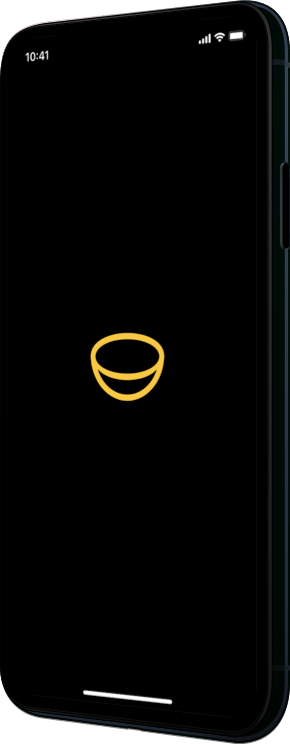
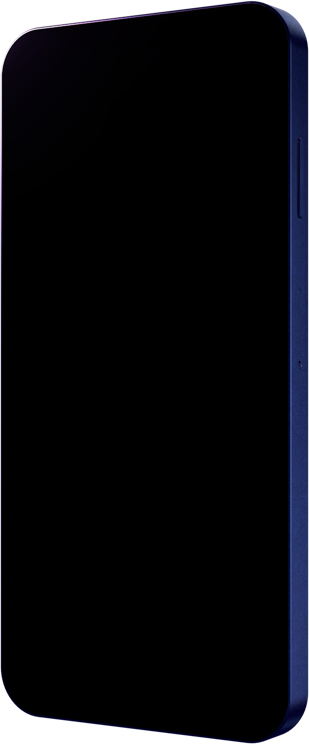
Static frame test

Changed region(s): [[0.0, 0.0, 1.0, 1.0], [0.3103, 0.4328, 0.5897, 0.5565], [0.031, 0.9274, 0.0621, 0.9583]]

diff --git a/se/styles-se.css b/se/styles-se.css
@@ -177,22 +177,19 @@ header {
   margin-top: 50px;
   margin-bottom: 50px;
   height: 744px;
-  width 290px;
+  width 309px;
 	background: url(../gfx/hero-iphone@2x.png);
-  background-size: 290px 744px;
+  background-size: 309px 744px;
 	background-repeat: no-repeat;
 	background-position: center center;
-	
-
 }
 
 .video {
-  height: 701px;
-  width 250px;
-  margin-top: 16px;
-  margin-right: 26px;
-  border-radius: 100px 0 0 100px/50px 0 0 50px;
-  
+  height: 719px;
+  width 272px;
+  margin-top: 13px;
+  margin-right: 21px;
+  border-radius: 240px 0 0 240px/45px 0 0 45px;
 }
 
 .app-store-download-top { 
@@ -510,18 +507,18 @@ p {
     margin-top: 20px;
     margin-bottom: 0;
     height: 595px;
-    width 232px;
-    background-size: 232px 595px;
+    width 247px;
+    background-size: 247px 595px;
   	background-repeat: no-repeat;
   	background-position: center center;
   }
   
   .video {
-    height: 561px;
-    width 200px;
-    margin-top: 13px;
-    margin-right: 21px;
-    border-radius: 120px 0 0 120px/70px 0 0 70px;
+    height: 575px;
+    width 218px;
+    margin-top: 10.5px;
+    margin-right: 17px;
+    border-radius: 200px 0 0 200px/35px 0 0 35px;
   }
   
   .app-store-download-top { 
@@ -561,18 +558,18 @@ p {
     margin-top: 20px;
     margin-bottom: 0;
     height: 595px;
-    width 232px;
-    background-size: 232px 595px;
+    width 247px;
+    background-size: 247px 595px;
   	background-repeat: no-repeat;
   	background-position: center center;
   }
   
   .video {
-    height: 561px;
-    width 200px;
-    margin-top: 13px;
-    margin-right: 21px;
-    border-radius: 120px 0 0 120px/70px 0 0 70px;
+    height: 575px;
+    width 218px;
+    margin-top: 10.5px;
+    margin-right: 17px;
+    border-radius: 200px 0 0 200px/35px 0 0 35px;
   }
   
   .app-store-download-top { 
@@ -691,18 +688,18 @@ p {
     margin-top: 0;
     margin-bottom: 0;
     height: 595px;
-    width 232px;
-    background-size: 232px 595px;
+    width 247px;
+    background-size: 247px 595px;
   	background-repeat: no-repeat;
   	background-position: center center;
   }
-
+  
   .video {
-    height: 561px;
-    width 200px;
-    margin-top: 13px;
-    margin-right: 21px;
-    border-radius: 120px 0 0 120px/70px 0 0 70px;
+    height: 575px;
+    width 218px;
+    margin-top: 10.5px;
+    margin-right: 17px;
+    border-radius: 200px 0 0 200px/35px 0 0 35px;
     margin-bottom: 100px;
   }
   

diff --git a/styles.css b/styles.css
@@ -175,22 +175,19 @@ header {
   margin-top: 50px;
   margin-bottom: 50px;
   height: 744px;
-  width 290px;
+  width 309px;
 	background: url(gfx/hero-iphone@2x.png);
-  background-size: 290px 744px;
+  background-size: 309px 744px;
 	background-repeat: no-repeat;
 	background-position: center center;
-	
-
 }
 
 .video {
-  height: 701px;
-  width 250px;
-  margin-top: 16px;
-  margin-right: 26px;
-  border-radius: 100px 0 0 100px/50px 0 0 50px;
-  
+  height: 719px;
+  width 272px;
+  margin-top: 13px;
+  margin-right: 21px;
+  border-radius: 240px 0 0 240px/45px 0 0 45px;
 }
 
 .app-store-download-top { 
@@ -507,18 +504,18 @@ p {
     margin-top: 20px;
     margin-bottom: 0;
     height: 595px;
-    width 232px;
-    background-size: 232px 595px;
+    width 247px;
+    background-size: 247px 595px;
   	background-repeat: no-repeat;
   	background-position: center center;
   }
   
   .video {
-    height: 561px;
-    width 200px;
-    margin-top: 13px;
-    margin-right: 21px;
-    border-radius: 120px 0 0 120px/70px 0 0 70px;
+    height: 575px;
+    width 218px;
+    margin-top: 10.5px;
+    margin-right: 17px;
+    border-radius: 200px 0 0 200px/35px 0 0 35px;
   }
   
   .app-store-download-top { 
@@ -558,18 +555,18 @@ p {
     margin-top: 20px;
     margin-bottom: 0;
     height: 595px;
-    width 232px;
-    background-size: 232px 595px;
+    width 247px;
+    background-size: 247px 595px;
   	background-repeat: no-repeat;
   	background-position: center center;
   }
   
   .video {
-    height: 561px;
-    width 200px;
-    margin-top: 13px;
-    margin-right: 21px;
-    border-radius: 120px 0 0 120px/70px 0 0 70px;
+    height: 575px;
+    width 218px;
+    margin-top: 10.5px;
+    margin-right: 17px;
+    border-radius: 200px 0 0 200px/35px 0 0 35px;
   }
   
   .app-store-download-top { 
@@ -691,18 +688,18 @@ p {
     margin-top: 0;
     margin-bottom: 0;
     height: 595px;
-    width 232px;
-    background-size: 232px 595px;
+    width 247px;
+    background-size: 247px 595px;
   	background-repeat: no-repeat;
   	background-position: center center;
   }
-
+  
   .video {
-    height: 561px;
-    width 200px;
-    margin-top: 13px;
-    margin-right: 21px;
-    border-radius: 120px 0 0 120px/70px 0 0 70px;
+    height: 575px;
+    width 218px;
+    margin-top: 10.5px;
+    margin-right: 17px;
+    border-radius: 200px 0 0 200px/35px 0 0 35px;
     margin-bottom: 100px;
   }
   

diff --git a/index.html b/index.html
@@ -36,10 +36,14 @@
     <div class="hero">
       <h2 class="rellax" data-rellax-speed="-4">Planet Friendly Cooking</h2>       
         <div class="hero-iphone rellax" data-rellax-speed="-5">
-          <video class="video" width="250" height="701"  autoplay muted loop playsinline>
-          <source src="https://maxrudberg.com/plantry/web-EN-small.mp4" width="250" height="701" type="video/mp4" media="(max-width:480px)">
-  				<source src="https://maxrudberg.com/plantry/web-EN-medium.mp4" width="250" height="701" type="video/mp4"/>
+          <img class="video" src="gfx/video-frame.png">
+         
+<!--
+          <video class="video" width="272" height="719"  autoplay muted loop playsinline>
+          <source src="https://maxrudberg.com/plantry/web-EN-small.mp4" width="272" height="719" type="video/mp4" media="(max-width:480px)">
+  				<source src="https://maxrudberg.com/plantry/web-EN-medium.mp4" width="272" height="719" type="video/mp4"/>
   				</video>
+-->
 		      <div class="app-store-download-top"><a href="https://apps.apple.com/app/apple-store/id1109976916?pt=21520800&ct=web&mt=8"><img src="gfx/app_store.svg" alt="App Store Download" width="185px" height="62px"></a></div> 
         </div>
       <div class="app-store-download-top-mobile rellax" data-rellax-speed="-0.3"><a href="https://itunes.apple.com/us/app/meal-plan-recipes/id1109976916?mt=8&at=1010lLu7"><img src="gfx/app_store.svg" alt="App Store Download" width="185px" height="62px"></a></div> 

diff --git a/se/index.html b/se/index.html
@@ -35,10 +35,13 @@
     <div class="hero">
       <h2 class="rellax" data-rellax-speed="-4">Planetvänlig matlagning</h2>       
         <div class="hero-iphone rellax" data-rellax-speed="-5">
+                    <img class="video" src="../gfx/video-frame.png">
+<!--
           <video class="video" width="250" height="701"  autoplay muted loop playsinline>
-          <source src="https://maxrudberg.com/plantry/web-SE-small.mp4" width="250" height="701" type="video/mp4" media="(max-width:480px)">
-  				<source src="https://maxrudberg.com/plantry/web-SE-medium.mp4" width="250" height="701" type="video/mp4"/>
+          <source src="https://maxrudberg.com/plantry/web-SE-small.mp4" width="272" height="719" type="video/mp4" media="(max-width:480px)">
+  				<source src="https://maxrudberg.com/plantry/web-SE-medium.mp4" width="272" height="719" type="video/mp4"/>
   				</video>
+-->
 		      <div class="app-store-download-top"><a href="https://apps.apple.com/se/app/apple-store/id1109976916?pt=21520800&ct=web&mt=8"><img src="../gfx/app_store_se.svg" alt="App Store Download" width="185px" height="62px"></a></div> 
         </div>
       <div class="app-store-download-top-mobile rellax" data-rellax-speed="-0.3"><a href="https://itunes.apple.com/se/app/meal-plan-recipes/id1109976916?mt=8&at=1010lLu7"><img src="../gfx/app_store_se.svg" alt="App Store Download" width="185px" height="62px"></a></div> 
